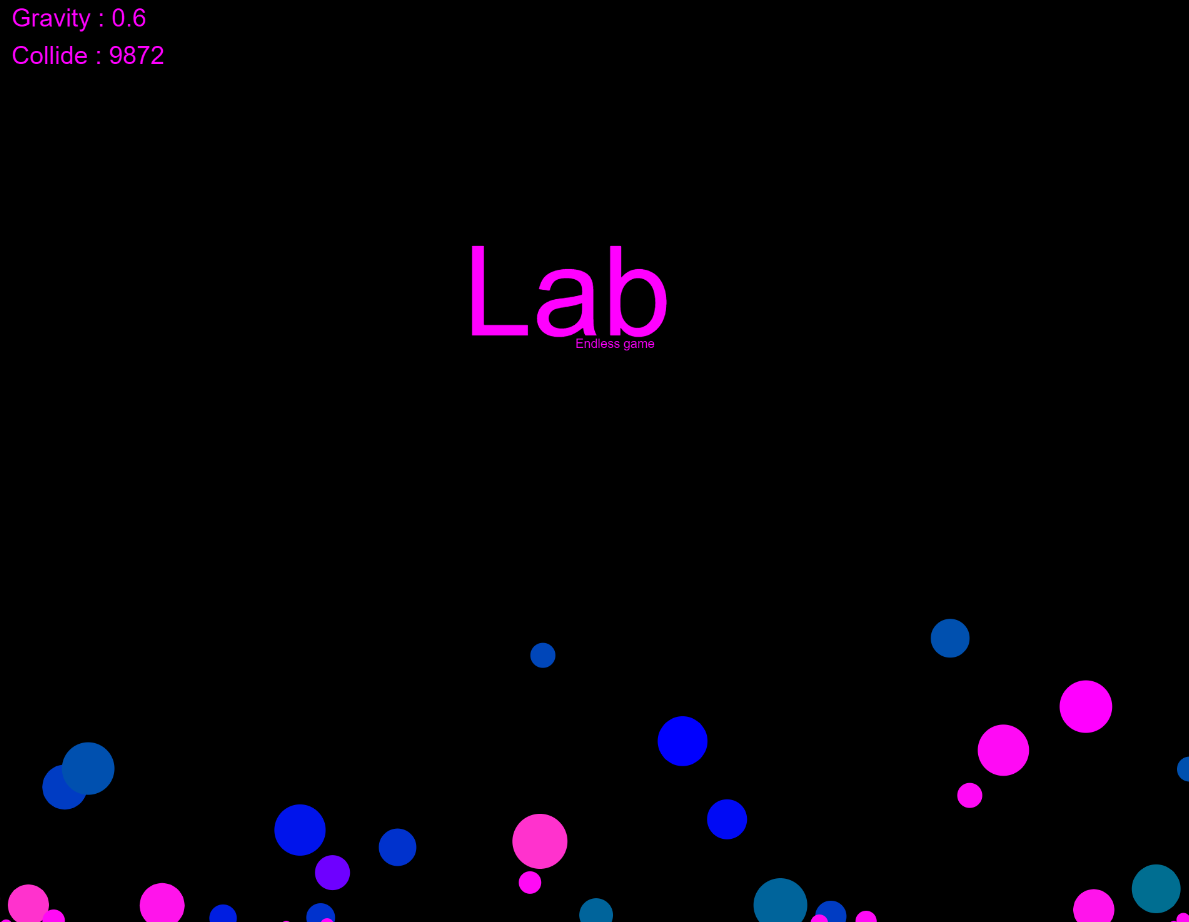
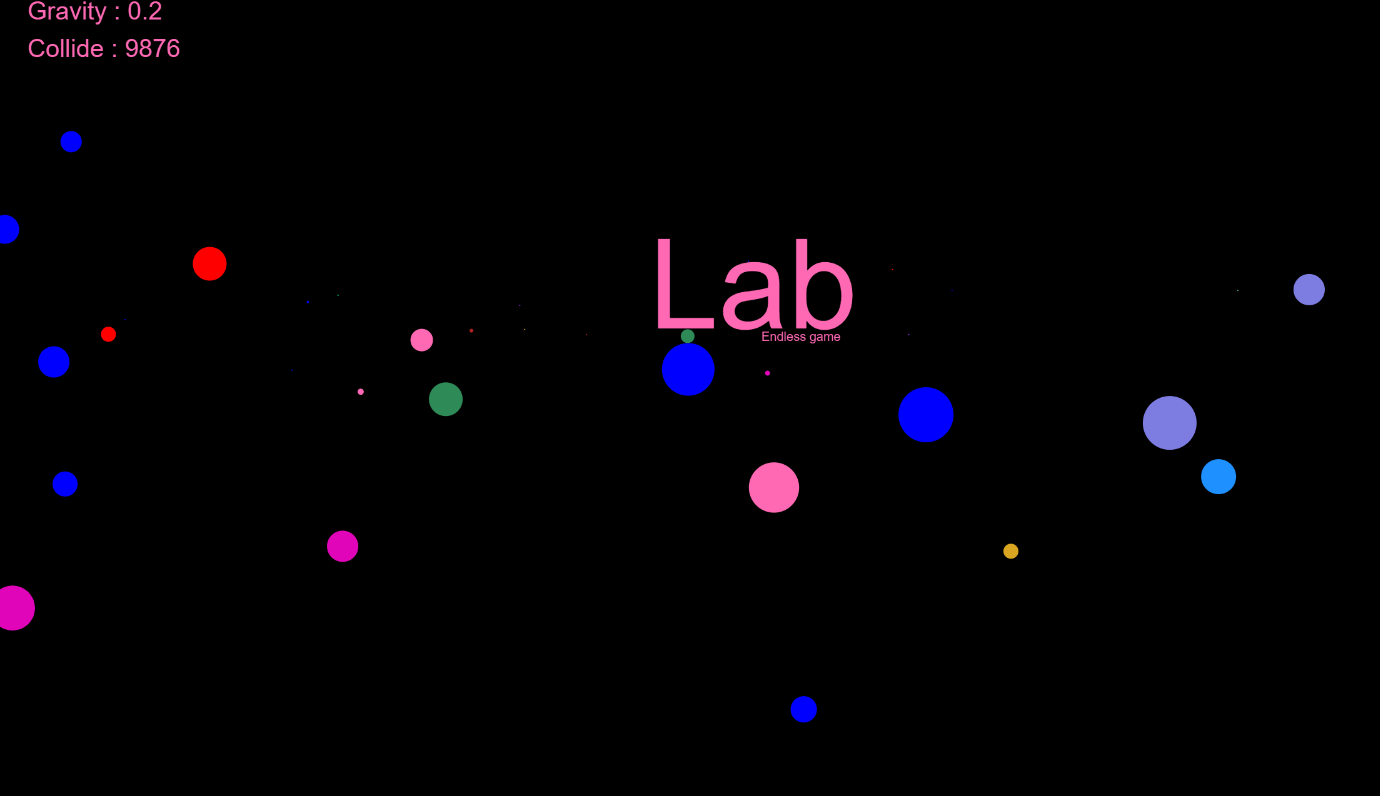
8 - twitch lab

diff --git a/index.html b/index.html
@@ -78,5 +78,12 @@
       <div class="desc">7-twitchParticlesChatOnly</div>
     </div>
     
+    <div class="gallery">
+      <a target="_blank" href="./box/8-tlab/">
+        <img src="./box/8-tlab/img.png" alt="pop" width="600" height="400">
+      </a>
+      <div class="desc">8-tlab</div>
+    </div>
+    
   </body>
 </html>
